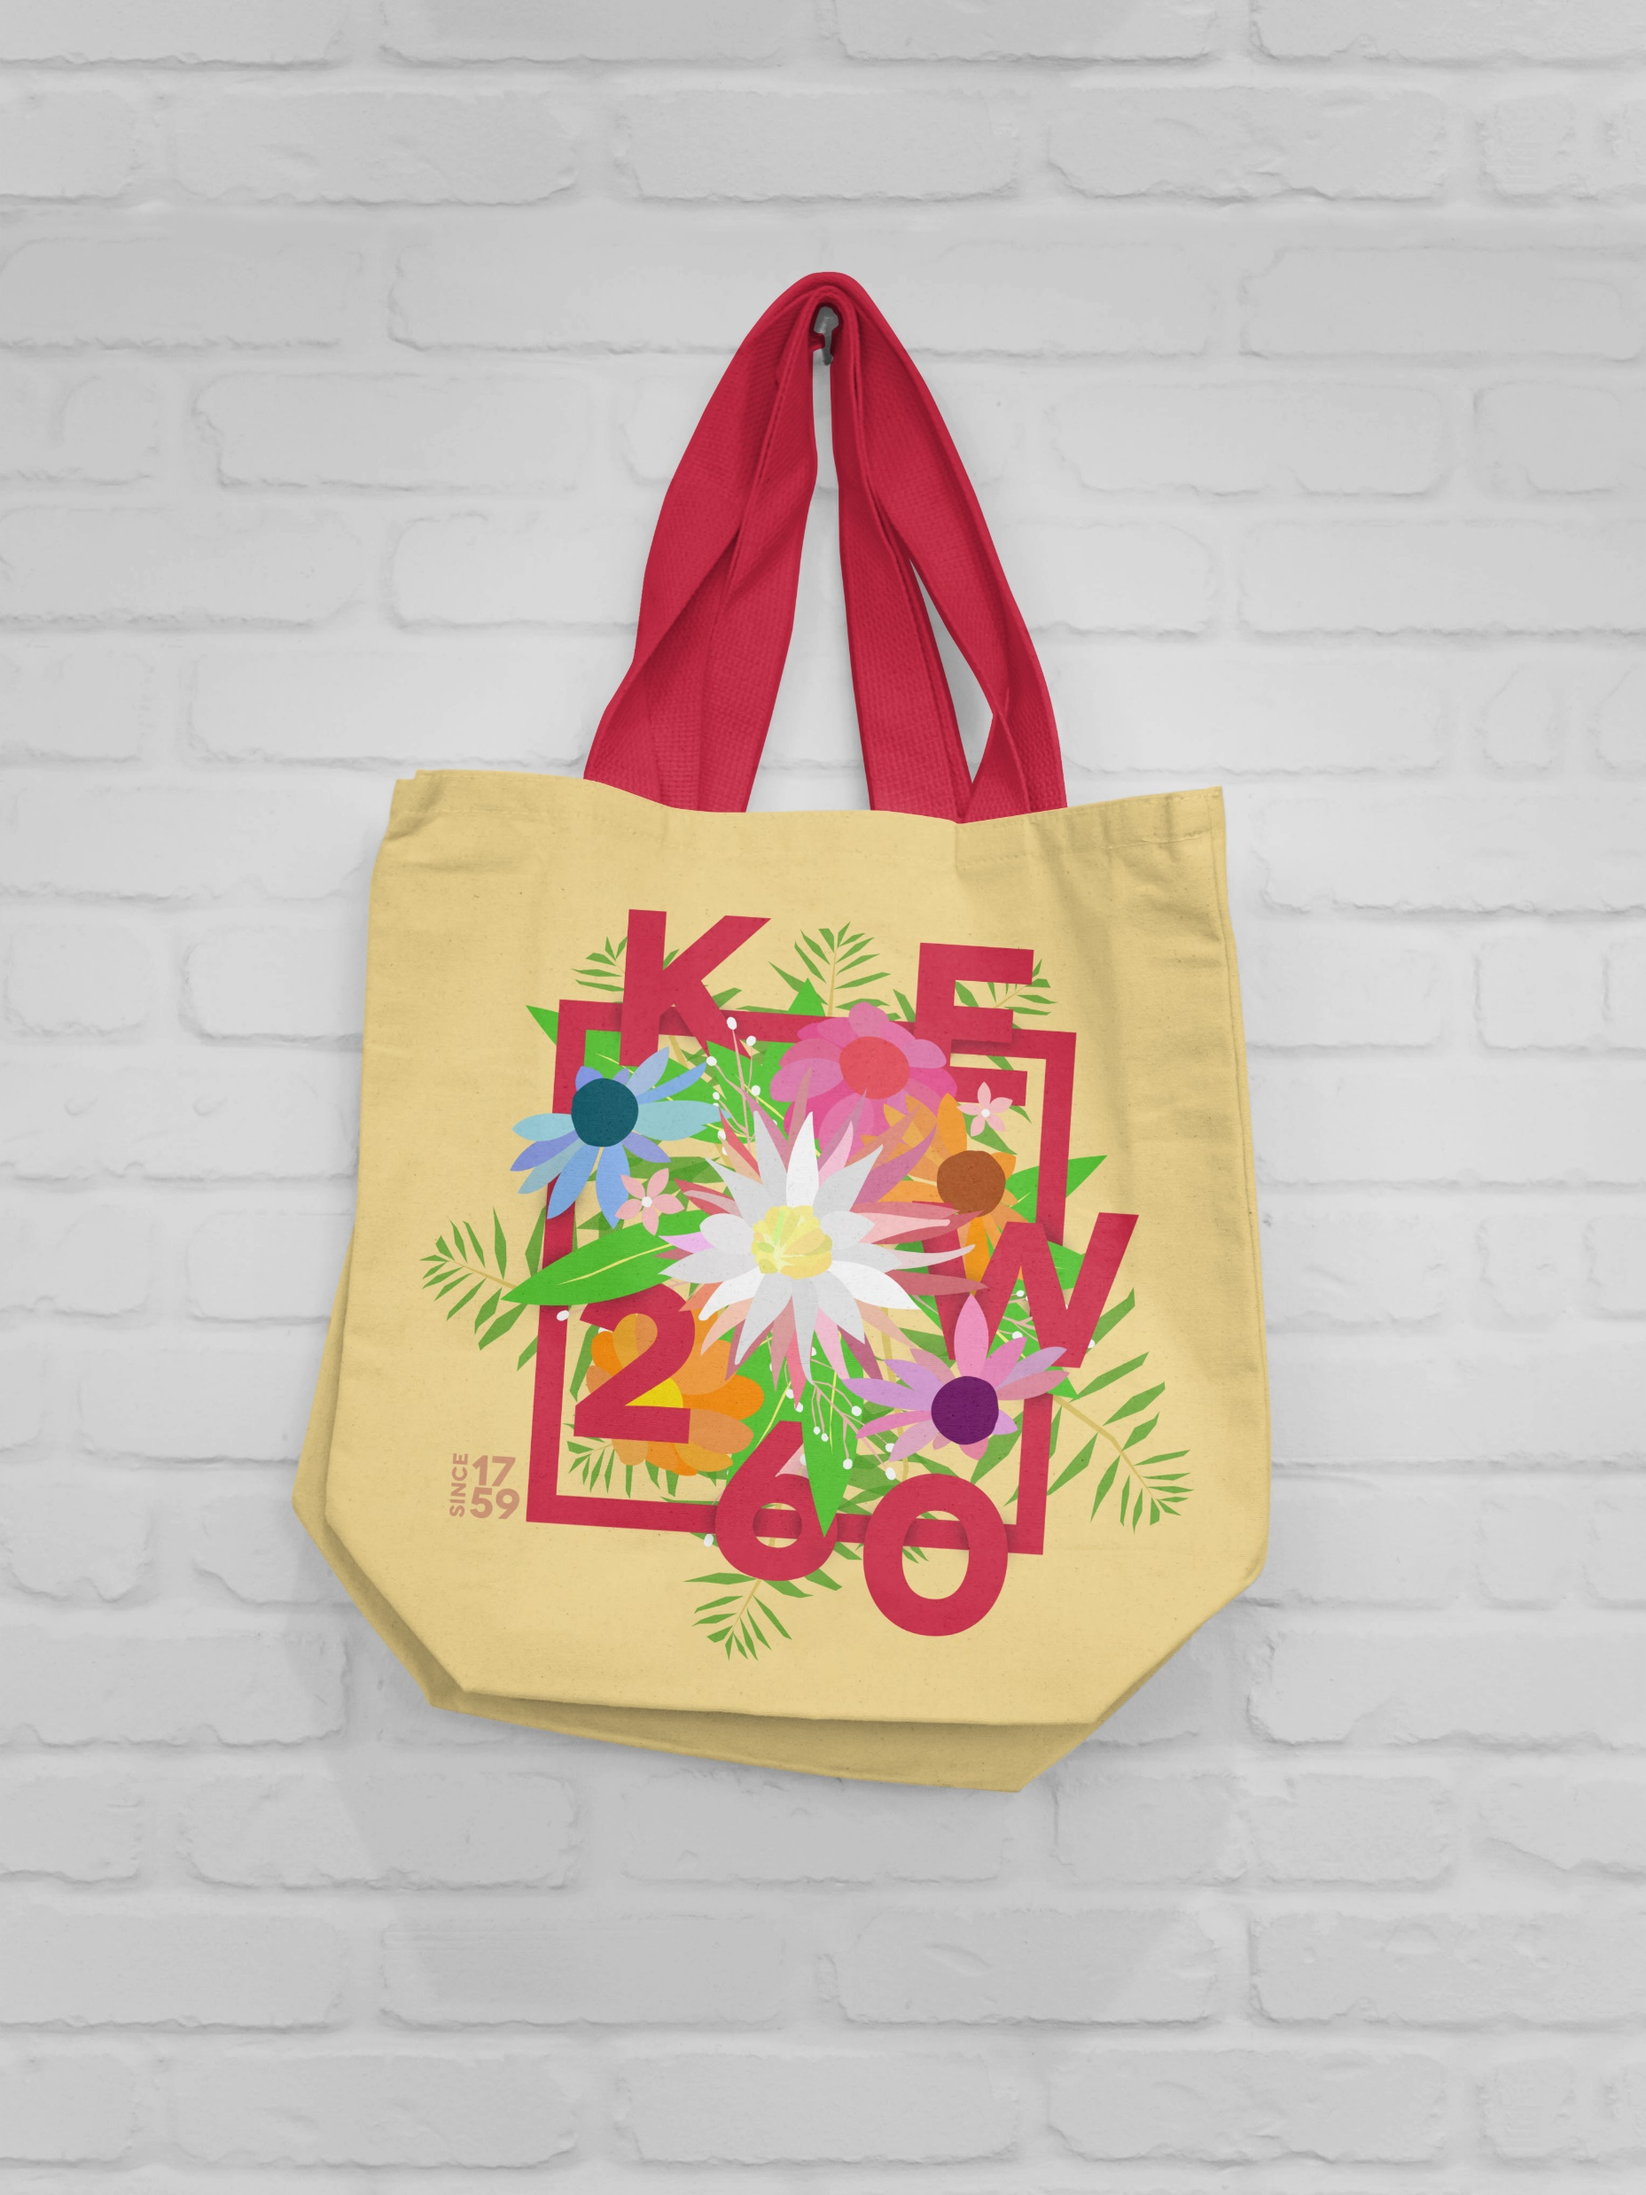
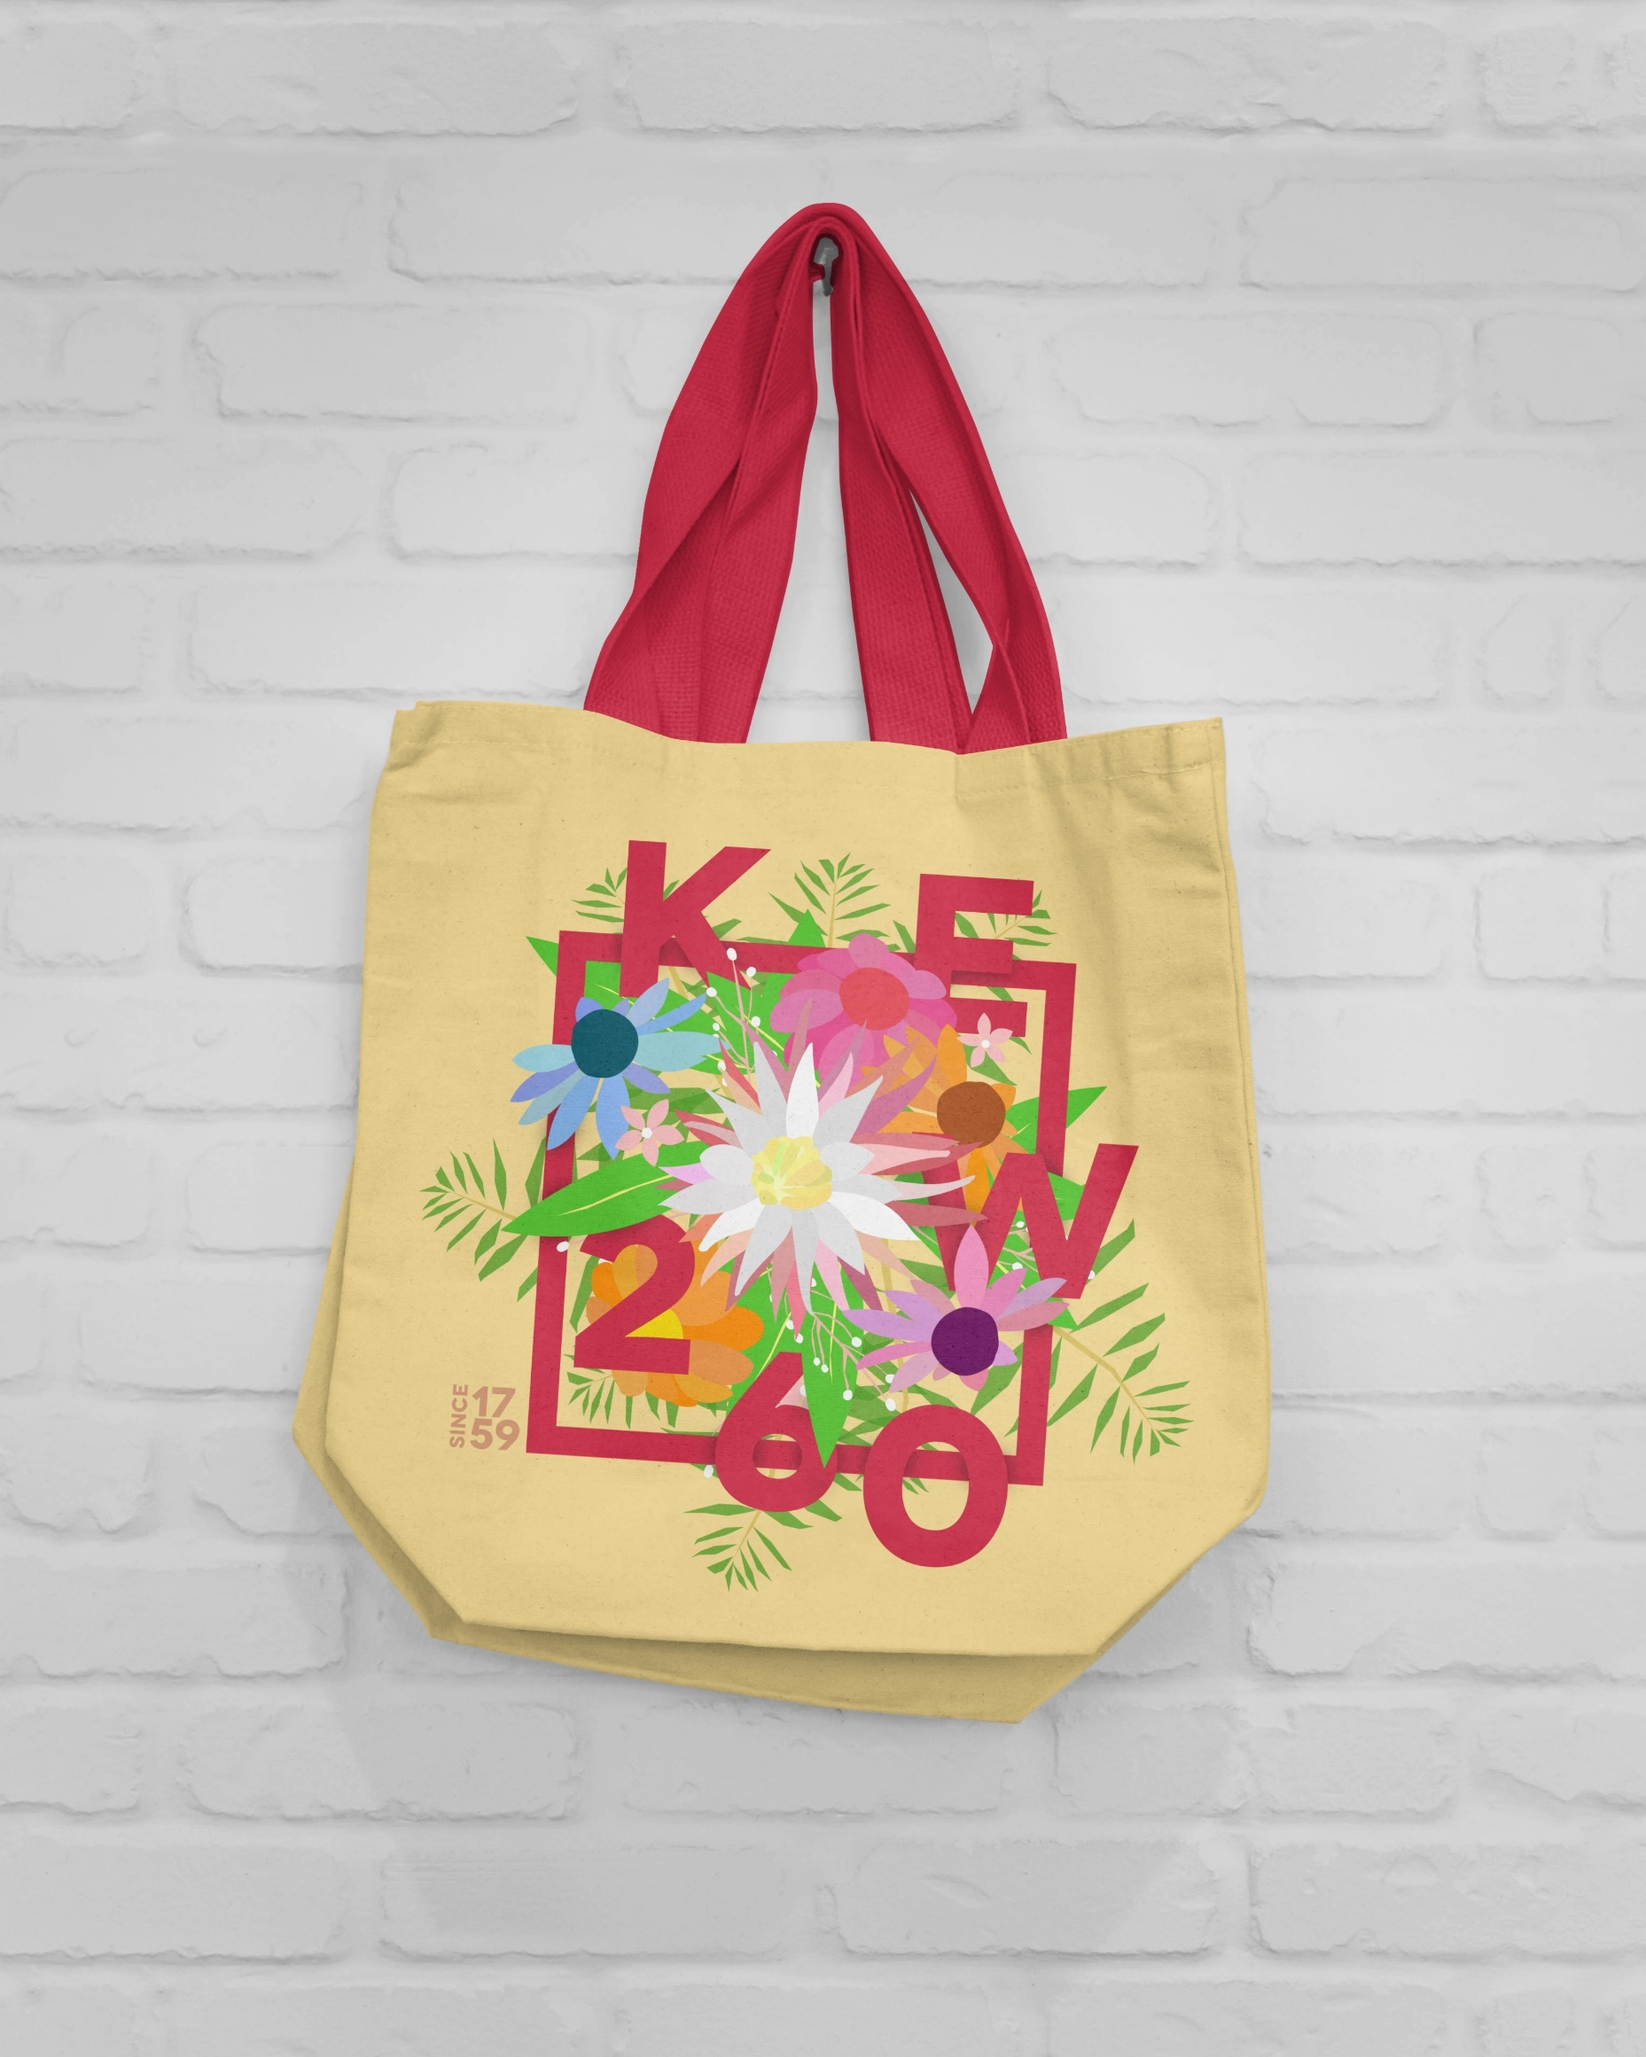
Added all outcome 2

diff --git a/src/pages/Kew.js b/src/pages/Kew.js
@@ -27,6 +27,9 @@ const moodboard2 = ['/assets/images/kew/moodboard-2/image100.png', '/assets/imag
 
 const outcome1Inspiration = ['/assets/images/kew/outcome-1/inspiration/ (1).jpg', '/assets/images/kew/outcome-1/inspiration/ (2).jpg', '/assets/images/kew/outcome-1/inspiration/ (3).jpg', '/assets/images/kew/outcome-1/inspiration/ (4).jpg', '/assets/images/kew/outcome-1/inspiration/ (5).jpg', '/assets/images/kew/outcome-1/inspiration/ (6).jpg', '/assets/images/kew/outcome-1/inspiration/ (7).jpg', '/assets/images/kew/outcome-1/inspiration/image131.jpeg', '/assets/images/kew/outcome-1/inspiration/image132.png', '/assets/images/kew/outcome-1/inspiration/image133.png', '/assets/images/kew/outcome-1/inspiration/image134.png', '/assets/images/kew/outcome-1/inspiration/image24.png', '/assets/images/kew/outcome-1/inspiration/image42.jpeg', '/assets/images/kew/outcome-1/inspiration/image43.jpg']
 
+const outcome2Processes = ['/assets/images/kew/outcome-2/processes/image174.png', '/assets/images/kew/outcome-2/processes/image175.png', '/assets/images/kew/outcome-2/processes/image176.png', '/assets/images/kew/outcome-2/processes/image177.png', '/assets/images/kew/outcome-2/processes/image178.png', '/assets/images/kew/outcome-2/processes/image179.png', '/assets/images/kew/outcome-2/processes/image180.png', '/assets/images/kew/outcome-2/processes/image181.png', '/assets/images/kew/outcome-2/processes/image182.png', '/assets/images/kew/outcome-2/processes/image183.png', '/assets/images/kew/outcome-2/processes/image184.png', '/assets/images/kew/outcome-2/processes/image185.png']
+
+
 const Kew = () => {
     return (
         <>
@@ -316,9 +319,35 @@ const Kew = () => {
                     <Image className='threexline content-img' src='/assets/images/kew/outcome-2/inspiration/image171.jpeg' />
                     <Image className='threexline content-img' src='/assets/images/kew/outcome-2/inspiration/image172.jpeg' />
                     <Subsection id='outcome-2--processes' />
-
-
+                    <p>For my 2nd outcome, I used Affinity Designer for its tools with vector art. I started by creating the ferns, which I knew I wanted to help create a solid base on which I could add more foliage to the bouquet. I started off by creating some very generic flowers, but I later hated how similar they looked, so got rid of them. I then started by creating more flowers based off of pictures I took. I then reused some of them, by recolouring them, and rotating them, to help add volume of the bouquet. I continued to add small sprigs of cow parsley, and leaves to help bulk out the piece. I then started adding text and a containing rectangle, to help promote Kew. I experimented by adding a shadow, but later removed it, as it added too much complexity to it. Finally I added a small established element, to further emphasise 260 years at Kew.</p>
+                    <Gallery imgs={outcome2Processes} />
+                    <Subsection id='outcome-2--shadow-experiments' />
+                    <p>Originally, I wanted to have a drop shadow on all of the flowers and text, to help increase realism on the final product. However, I later removed this, as it made the image much more complex and cluttered, detracting from Abbiss Smiths' distinct style. When I removed all the shadows, it made the letters very difficult to read the text on the border, due to them being the same colour. To help increase contrast and help with readability, I added these shadows back in. I’m very glad I made these changes, and I think it makes the final product look much more professional, and clean.</p>
+                    <Image className='threexline content-img' src='/assets/images/kew/outcome-2/shadow-experiments/image163.png' />
+                    <Image className='threexline content-img' src='/assets/images/kew/outcome-2/shadow-experiments/image186.png' />
+                    <Image className='threexline content-img' src='/assets/images/kew/outcome-2/shadow-experiments/image187.png' />
+                    <p>As well as this, I also moved the W, as it obstructed the focal point of the poster, and was very distracting, so I later moved it towards the right, and embedded it in the bouquet a bit more.</p>
+                    <Subsection id='outcome-2--layout-experiments' />
+                    <p>For this experiment I decided to remove the complexity of the letters mixed in with the bouquet, and instead decided to keep them separate. I experimented with the border and without, but decided to keep it, as it tied it all together, by adding volume to the bouquet.</p>
+                    <Image className='content-img' style={{float: 'left', paddingRight: '20px'}} src='/assets/images/kew/outcome-2/layout-experiments/image188.png' />
+                    <Image className='content-img' src='/assets/images/kew/outcome-2/layout-experiments/image189.png' />
+                    <Subsection id='outcome-2--colour-experiments' />
+                    <p>I wanted to keep the colours as bright and as engaging as possible, to help draw the eye to the bag, and to make Kew’s brand attractive to the audience. As well as this Abbiss Smiths’ work is often very colourful, using primarily very saturated and vibrant colours. To help emulate this in my own work, I also tried to pick similarly bright colours, to help grab the audience’s attention.</p>
+                    <Image className='threexline content-img' src='/assets/images/kew/outcome-2/colour-experiments/image192.png' />
+                    <Image className='threexline content-img' src='/assets/images/kew/outcome-2/colour-experiments/image193.png' />
+                    <Image className='threexline content-img' src='/assets/images/kew/outcome-2/colour-experiments/image194.png' />
+                    <p>However, I later experimented with various different colour combinations, to see how they would look. I first experimented with changing the border and text colour. I think that the light cyan I chose for one experiment is way too light, resulting in the text being hard to read. However, I love how the purple turned out, and mixes up the very floral colours in the bouquet.</p>
+                    <p>I then decided to recolour some of the flowers to fit better with the new colours. I chose mainly pink/red, as I thought it looked good with</p>
+                    <Subsection id='outcome-2--mockups' />
+                    <Image className='content-img' style={{float: 'left', paddingRight: '20px'}} src='/assets/images/kew/outcome-2/finals/mockups/image195.jpeg' />
+                    <Image className='content-img' src='/assets/images/kew/outcome-2/finals/mockups/image196.jpeg' />
+                    <Image className='divider-img' style={{width: 'calc(100% - 20px)'}}src='/assets/images/kew/outcome-2/finals/mockups/image197.png' />
+                    <Subsection id='outcome-2--final-3d-outcome' />
+                    <Image className='threexline content-img' src='/assets/images/kew/outcome-2/finals/3d-outcomes/image198.jpg' />
+                    <Image className='threexline content-img' src='/assets/images/kew/outcome-2/finals/3d-outcomes/image199.jpg' />
+                    <Image className='threexline content-img' src='/assets/images/kew/outcome-2/finals/3d-outcomes/image200.jpg' />
                 </Section>
+                
             </div>
         </>
     )
